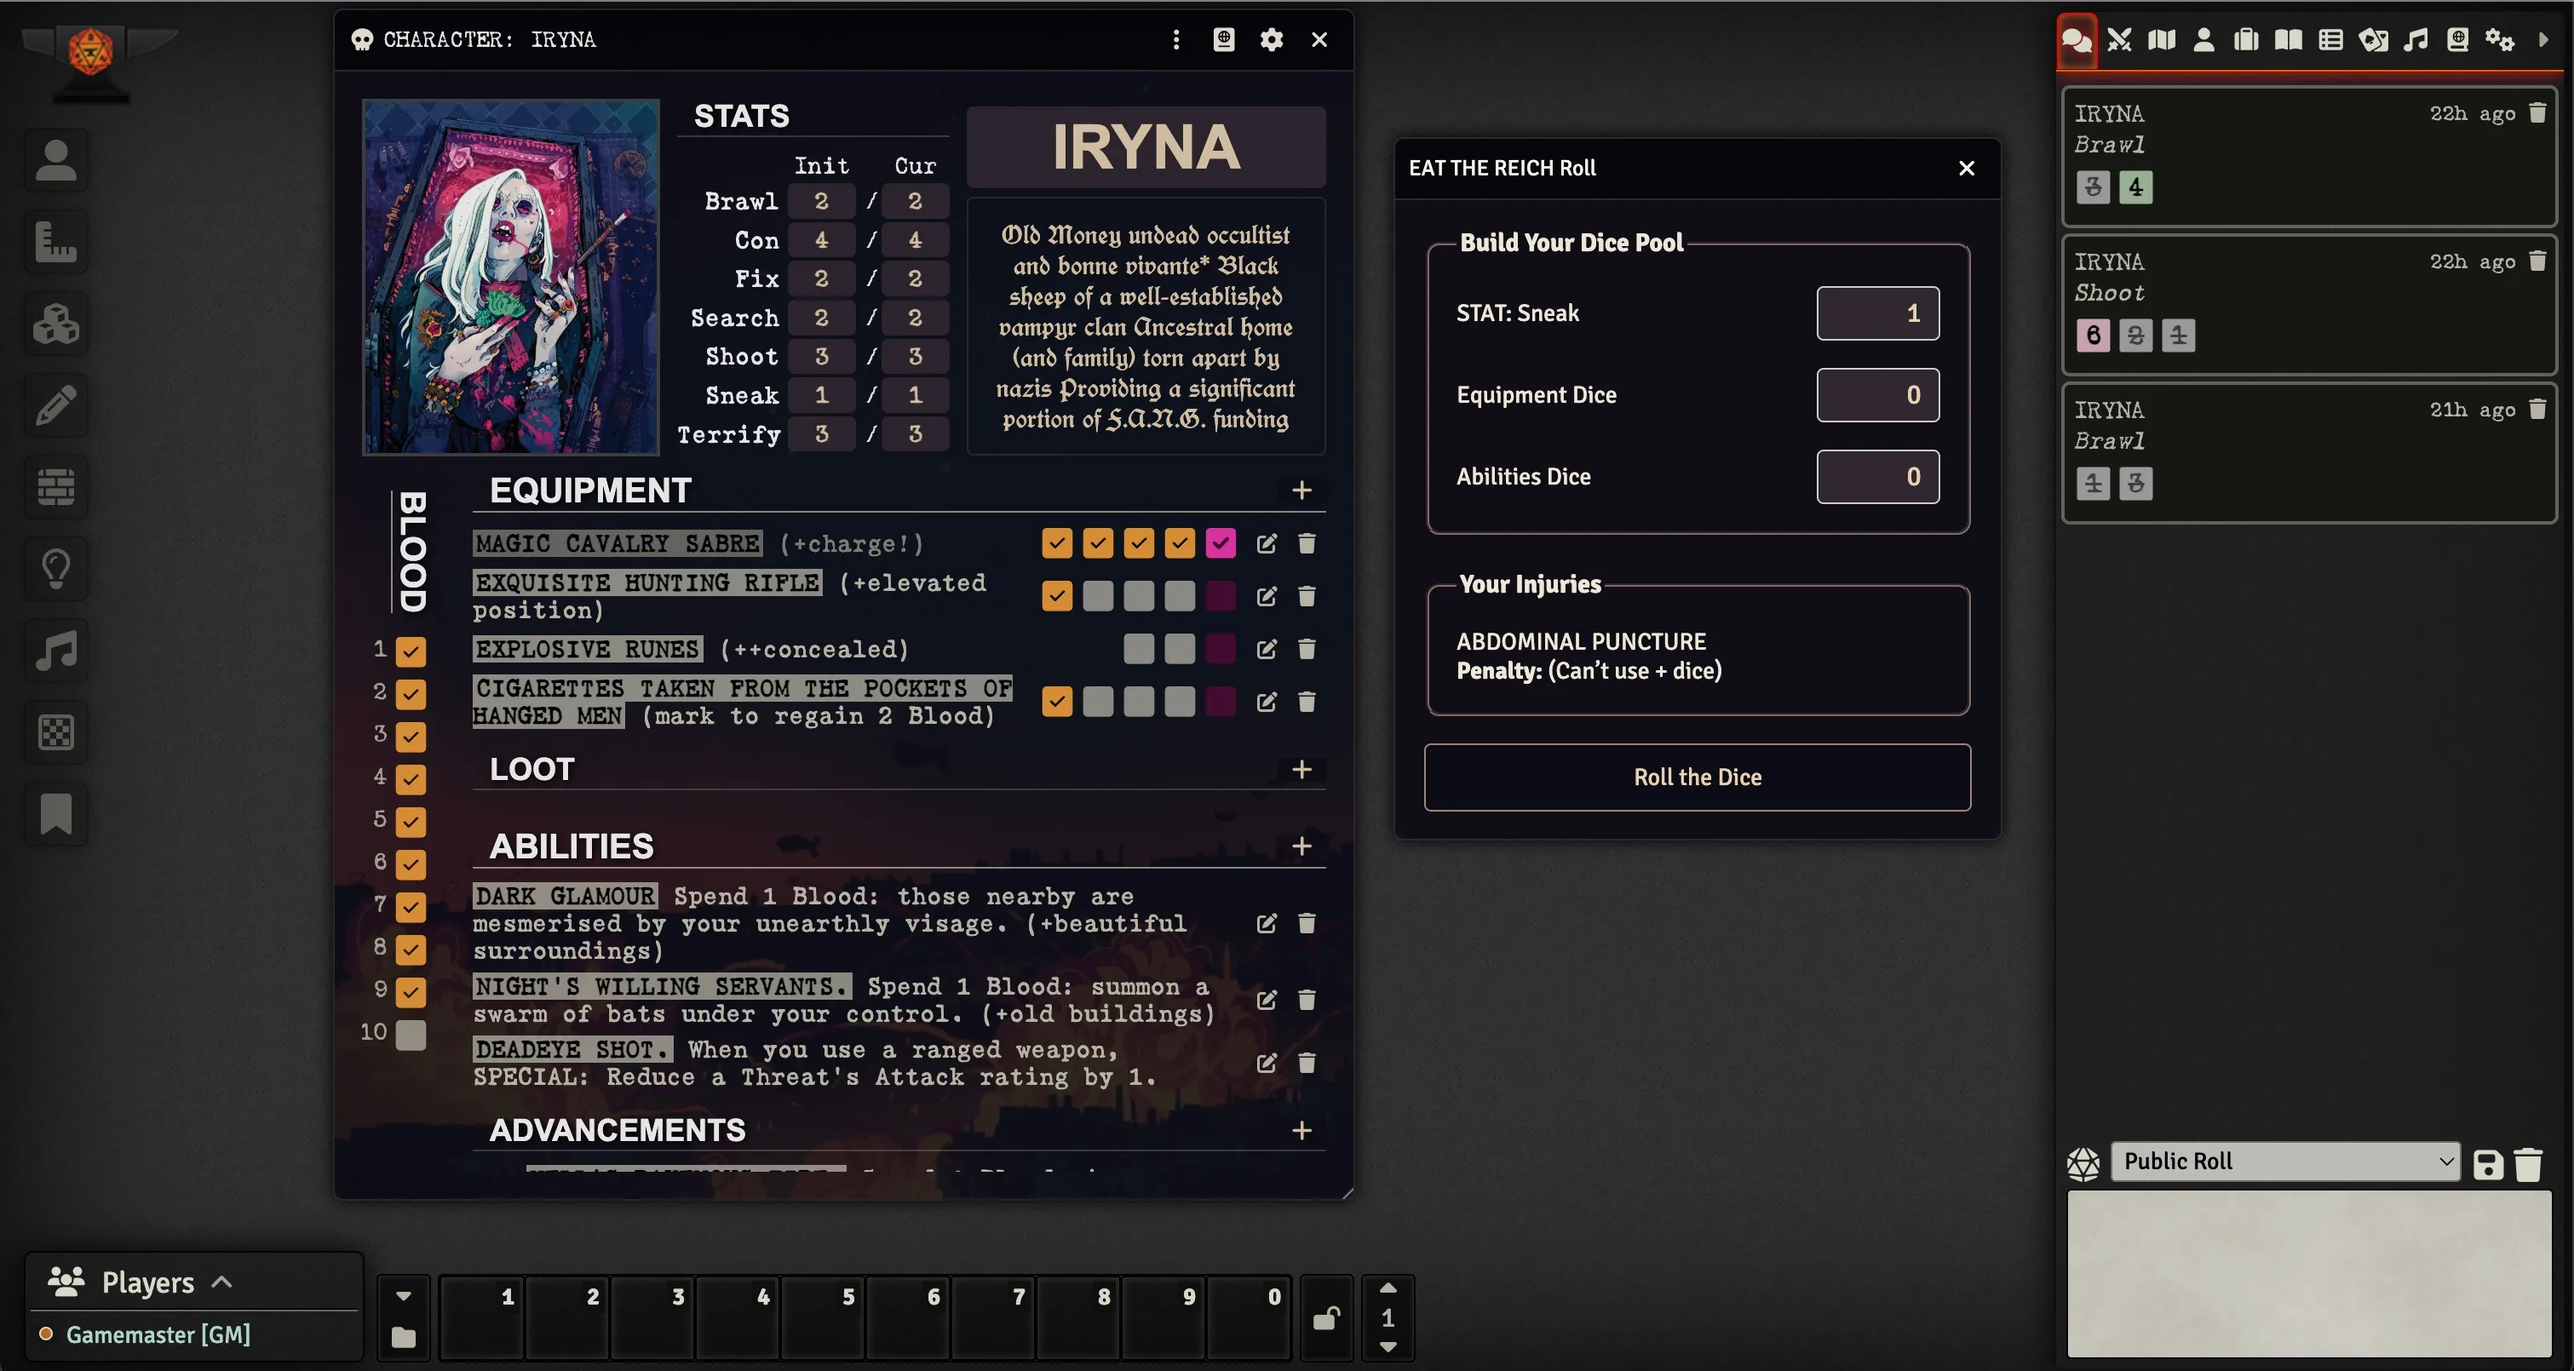
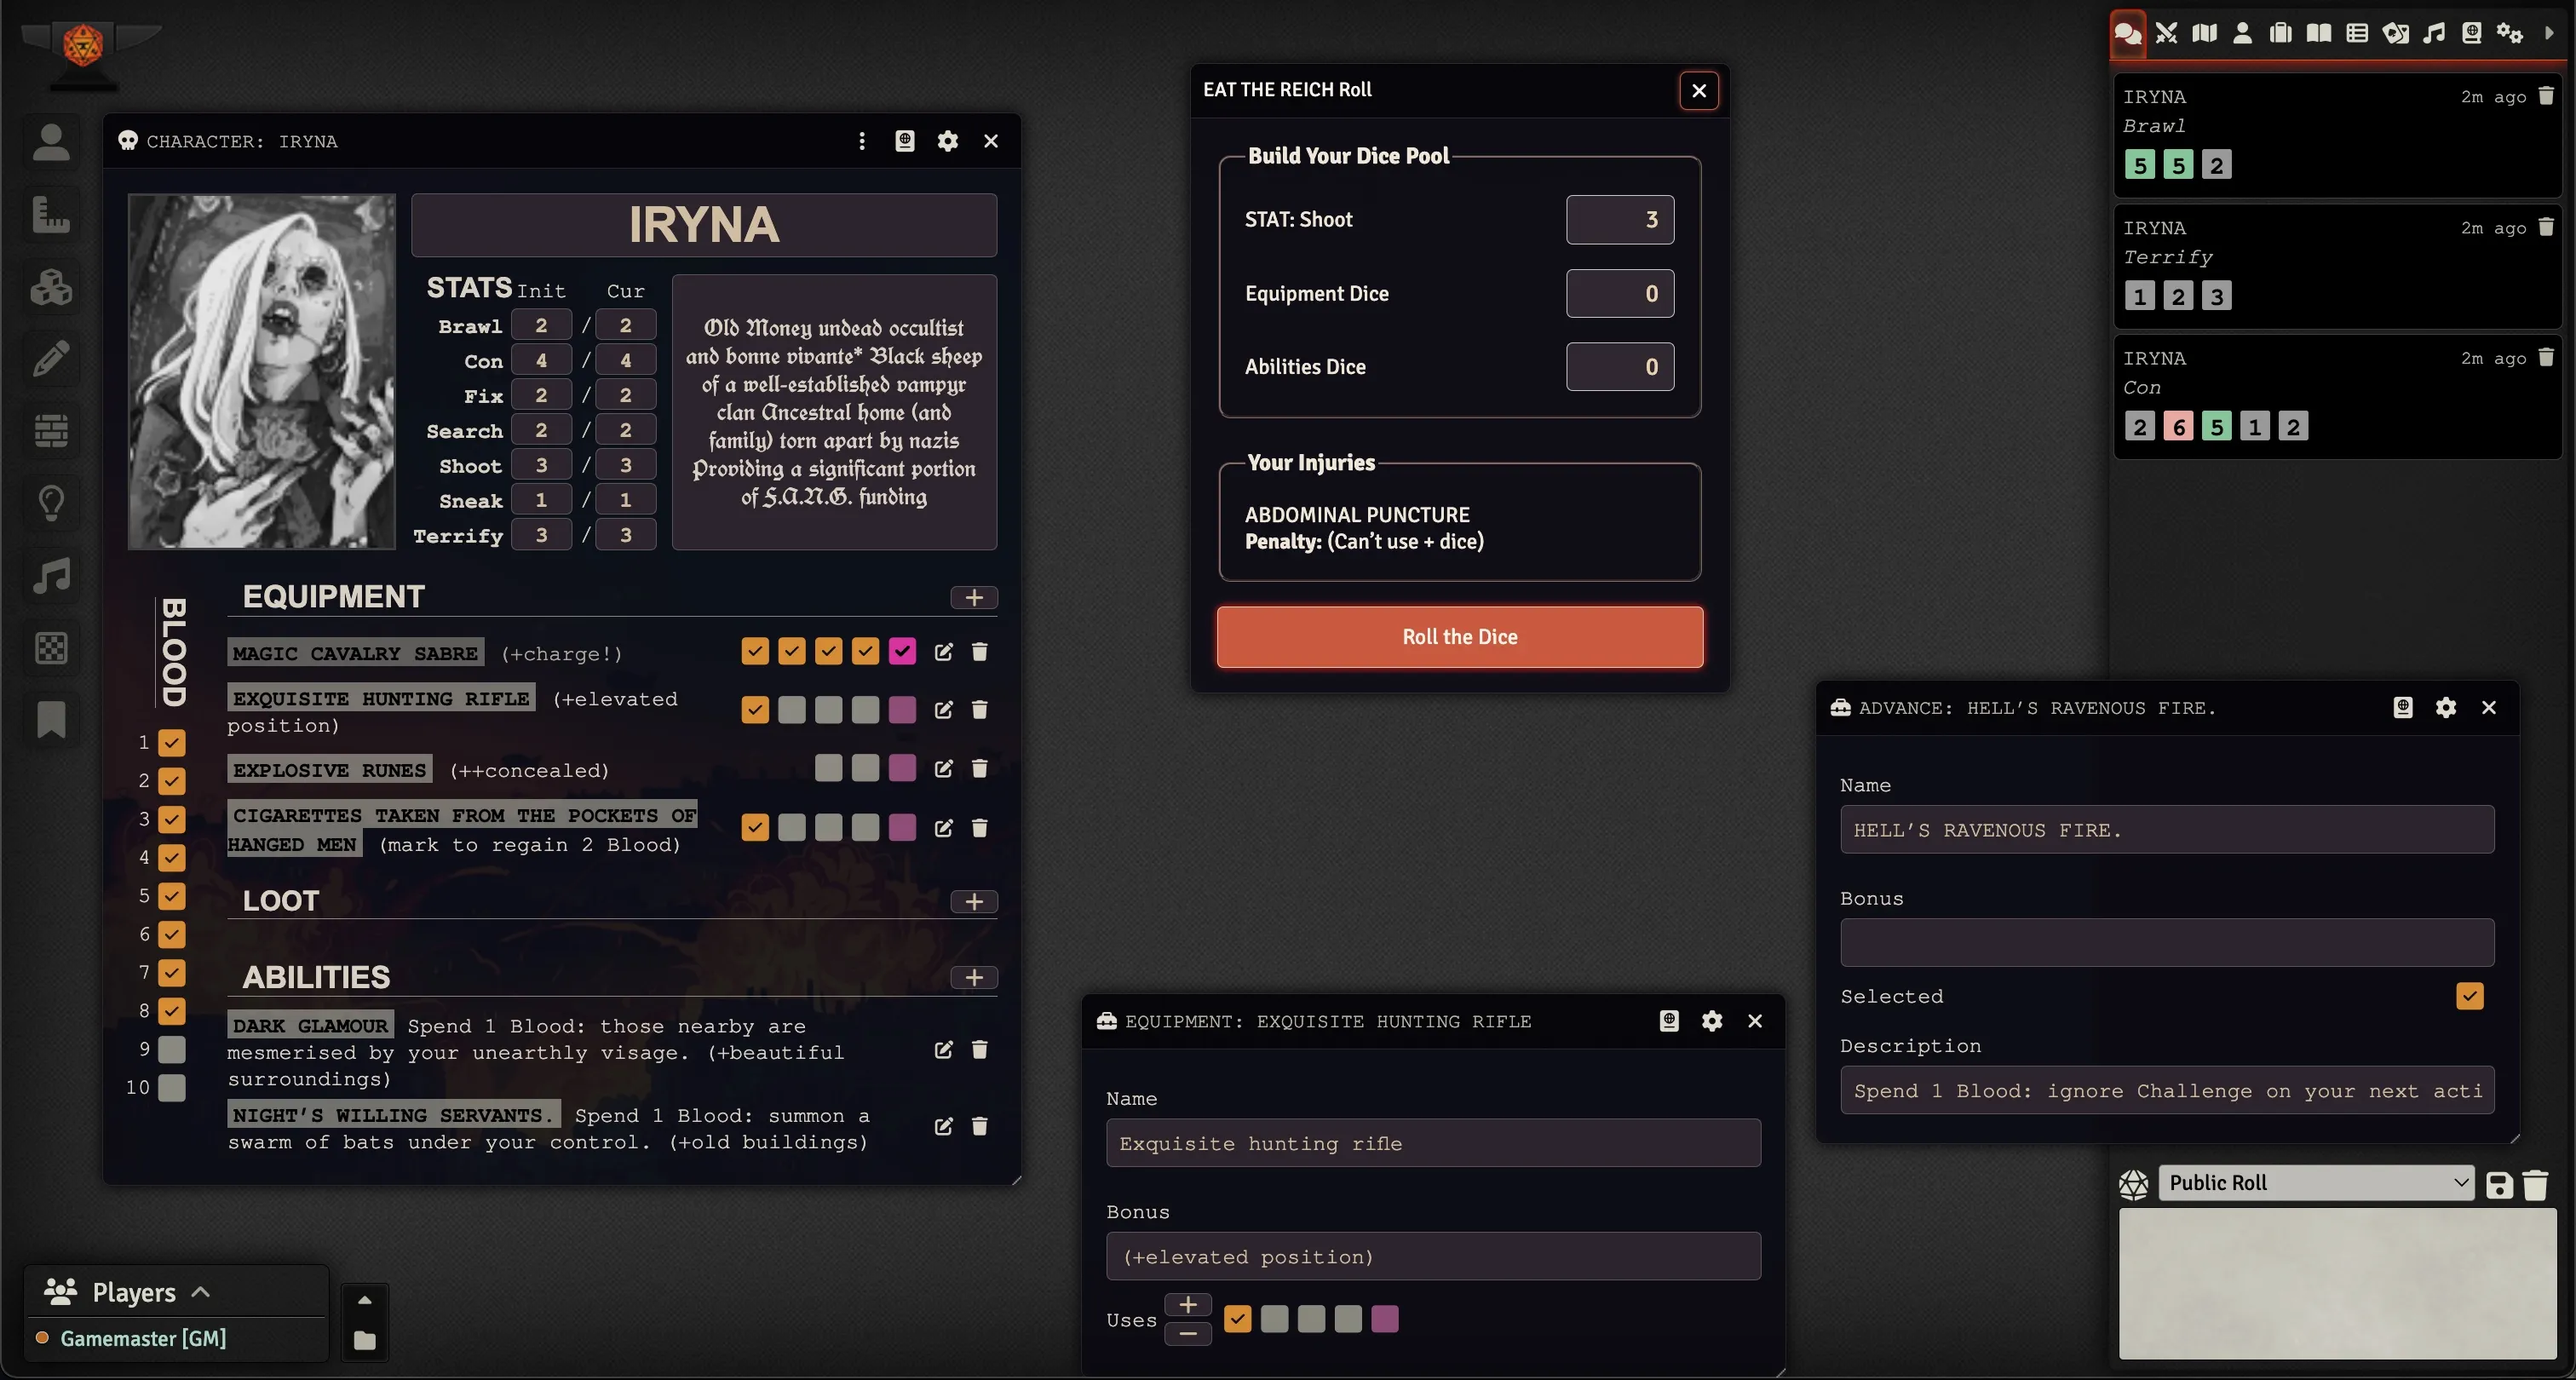
release prep, screenshots, readme updates

diff --git a/README.md b/README.md
@@ -26,7 +26,7 @@
 </p>
 
 ### An Unofficial EAT THE REICH System for Foundry VTT
-EAT THE REICH is a chaotic, ultraviolent tabletop RPG where players take on the roles of vampiric commandos on a bloody mission to tear through Nazi-occupied France during World War II. Written by [Grant Howitt](https://bsky.app/profile/gshowitt.bsky.social) and illustrated by [Will Kirkby](https://bsky.app/profile/chamonkee.bsky.social), and published by [Rowan, Rook and Decard](https://rowanrookanddecard.com). The game blends pulpy action, dark humor, and horror as players use their supernatural abilities to slaughter Nazis and consume their blood. With fast-paced mechanics and a rebellious tone, EAT THE REICH delivers an over-the-top, cathartic power fantasy drenched in gore and irreverence.
+EAT THE REICH is a chaotic, ultra-violet tabletop RPG where players take on the roles of vampiric commandos on a bloody mission to tear through Nazi-occupied France during World War II. Written by [Grant Howitt](https://bsky.app/profile/gshowitt.bsky.social) and illustrated by [Will Kirkby](https://bsky.app/profile/chamonkee.bsky.social), and published by [Rowan, Rook and Decard](https://rowanrookanddecard.com). The game blends pulpy action, dark humor, and horror as players use their supernatural abilities to slaughter Nazis and consume their blood. With fast-paced mechanics and a rebellious tone, EAT THE REICH delivers an over-the-top, cathartic power fantasy drenched in gore and irreverence.
 
 Find the books here: 
 [EAT THE REICH](https://rowanrookanddecard.com/product-category/game-systems/eat-the-reich)
@@ -36,26 +36,44 @@ This Eat the Reich Package for Foundry VTT is an independent production by Josep
 If you’ve enjoyed my work and find value in what I create, please consider supporting me with a small donation on [Ko-fi](https://ko-fi.com/G2G3I91JQ). I truly love what I do, and your support helps me dedicate time and resources to ongoing development. Every contribution, no matter the size, makes a difference and allows me to continue doing what I’m passionate about. Thank you for considering—it means the world to me.
 
 ## Screenshot
-![Screenshot of the character sheet](assets/screenshot.webp)
-<!-- ![Screenshot of some of the items in the compendium](assets/screenshot2.webp)
-![Screenshot of the Overlord and NPC sheets](assets/screenshot3.webp) -->
+![Screenshot of the character sheet, item sheets, dice roll dialog](assets/screenshot.webp)
+![Screenshot of the location sheet, threat sheet, GM dice roll dialog](assets/screenshot2.webp)
+![Screenshot of the light mode of the character and item sheets](assets/screenshot3.webp)
 
 ## How to Install (This is not released yet, so there is nothing to install)
-~~You can install the latest released version of the system by using this manifest link in Foundry VTT. [Instructions](https://foundryvtt.com/article/tutorial/): [module.json](https://github.com/philote/eat-the-reich/releases/latest/download/module.json)~~
+You can install the latest released version of the system by using this manifest link in Foundry VTT. [Instructions](https://foundryvtt.com/article/tutorial/): [module.json](https://github.com/philote/eat-the-reich/releases/latest/download/module.json)
 
 ## Features
 - Character Sheet
+- NPC/Threat Sheet
+- Location Sheet
+- Item Sheets for [advance, bonus, description, equipment, objective]
 - Basic Dice Pool support
+- Supports light and dark modes
 
 ### TODO
-- Advanced Dice Rolling support
-- NPC Sheet
-- Compendiums
-    - Pre-gens
-    - Pre-gen Items
-- Paris Scene
-- Clean up Light mode (looks like crud right now)
 - Play/Edit mode for character sheets
+Styling
+    Different background for Threats & items
+    Threats - Design change for ubermenschen?
+    GM rolls should be different style than player rolls in chat
+- Macros
+    - PC roll without stats
+    - GM roll without Threat rating
+- Chat messages
+    - use different dice images for GM vs Player?
+    - add more messaging about the roll
+    - Sort dice into categories
+    - PC: make dice clickable to allocate them on chat messages
+    - GM: make dice clickable to cross them out on chat messages
+- Rolls
+    - Make Injuries effect the sheet/rolls automatically
+- Pre-made Compendiums
+    - create pre-made characters
+    - Pre-gen Items
+    - add map scene
+- chat messages
+    - add flashback re-rolling
 
 # License & Acknowledgements
 The ‘Eat The Reich’ game is copyright © 2023 Rowan, Rook and Decard. All artwork in the game is copyright © 2023 Will Kirkby. You can find out more and support these games at [rowanrookanddecard.com](https://rowanrookanddecard.com)
